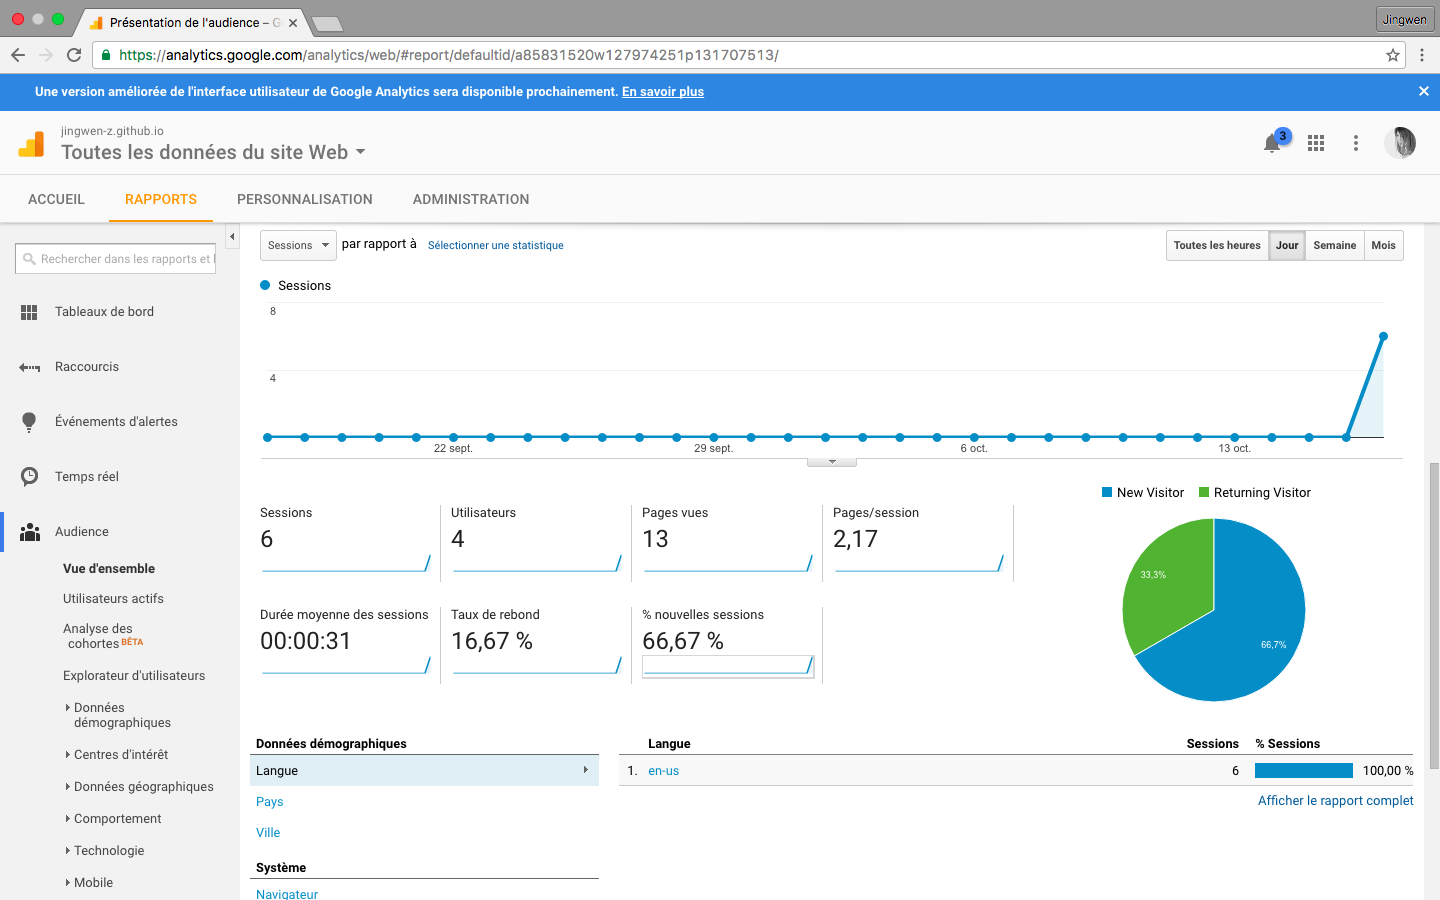
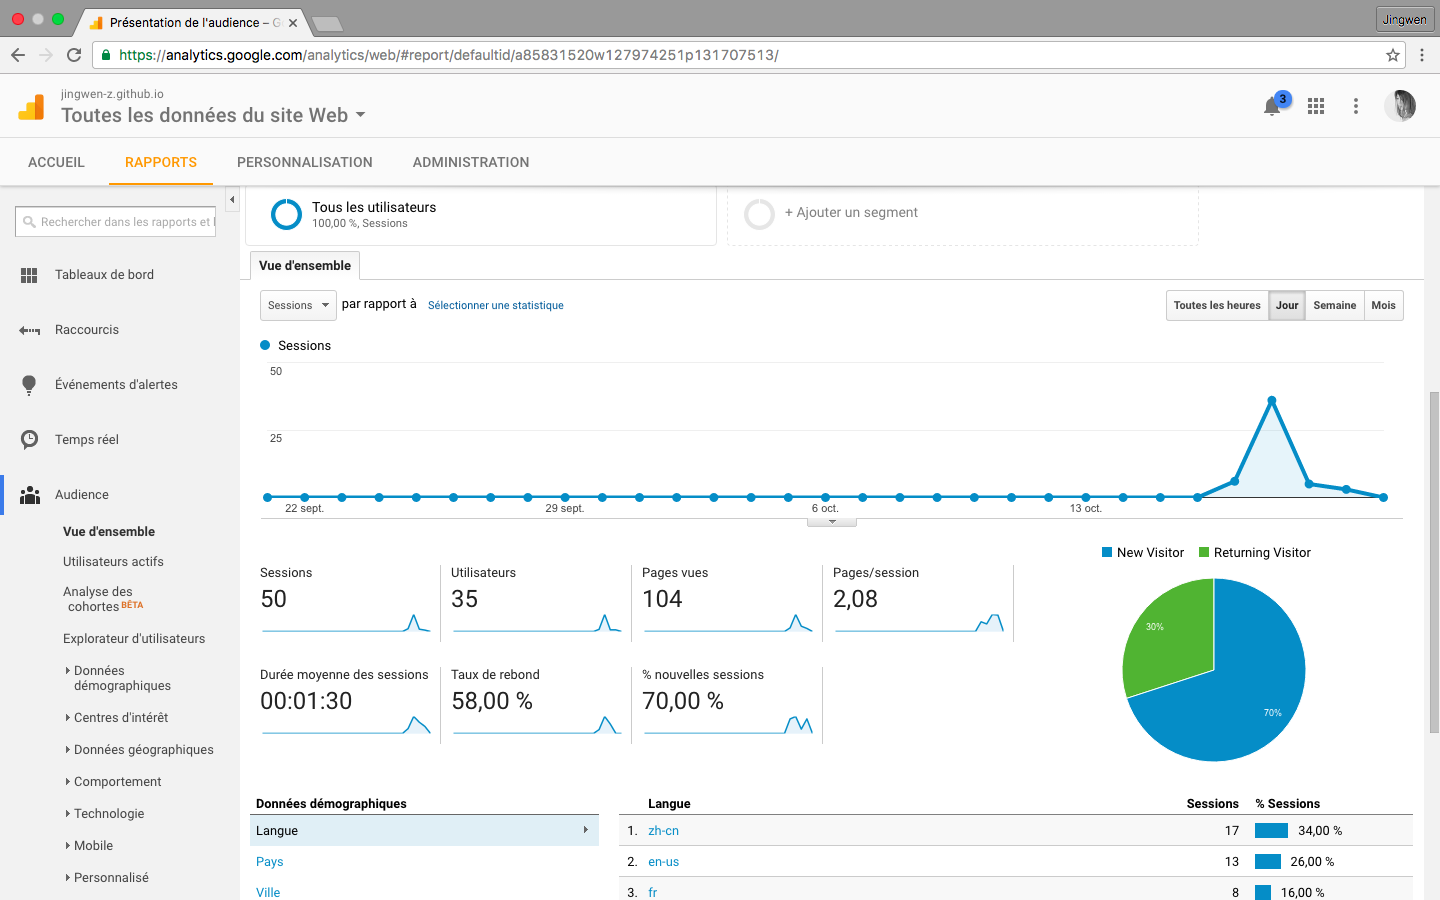
update images

diff --git a/_posts/2016-10-18-apply-google-analytics-to-website.md b/_posts/2016-10-18-apply-google-analytics-to-website.md
@@ -47,6 +47,10 @@ then push it into “cloud” with following code in terminal.
   <img alt="Dashboard2" src="{{ site.baseurl }}/images/20161018-dashboard2.png"/>
 </p>
 
+<p align="center">                                                              
+  <img alt="Dashboard3" src="{{ site.baseurl }}/images/20161018-dashboard3.png"/>
+</p> 
+
 Well, here are all things that I share to you today.
 
 [Google Analytics]:https://www.google.com/analytics
